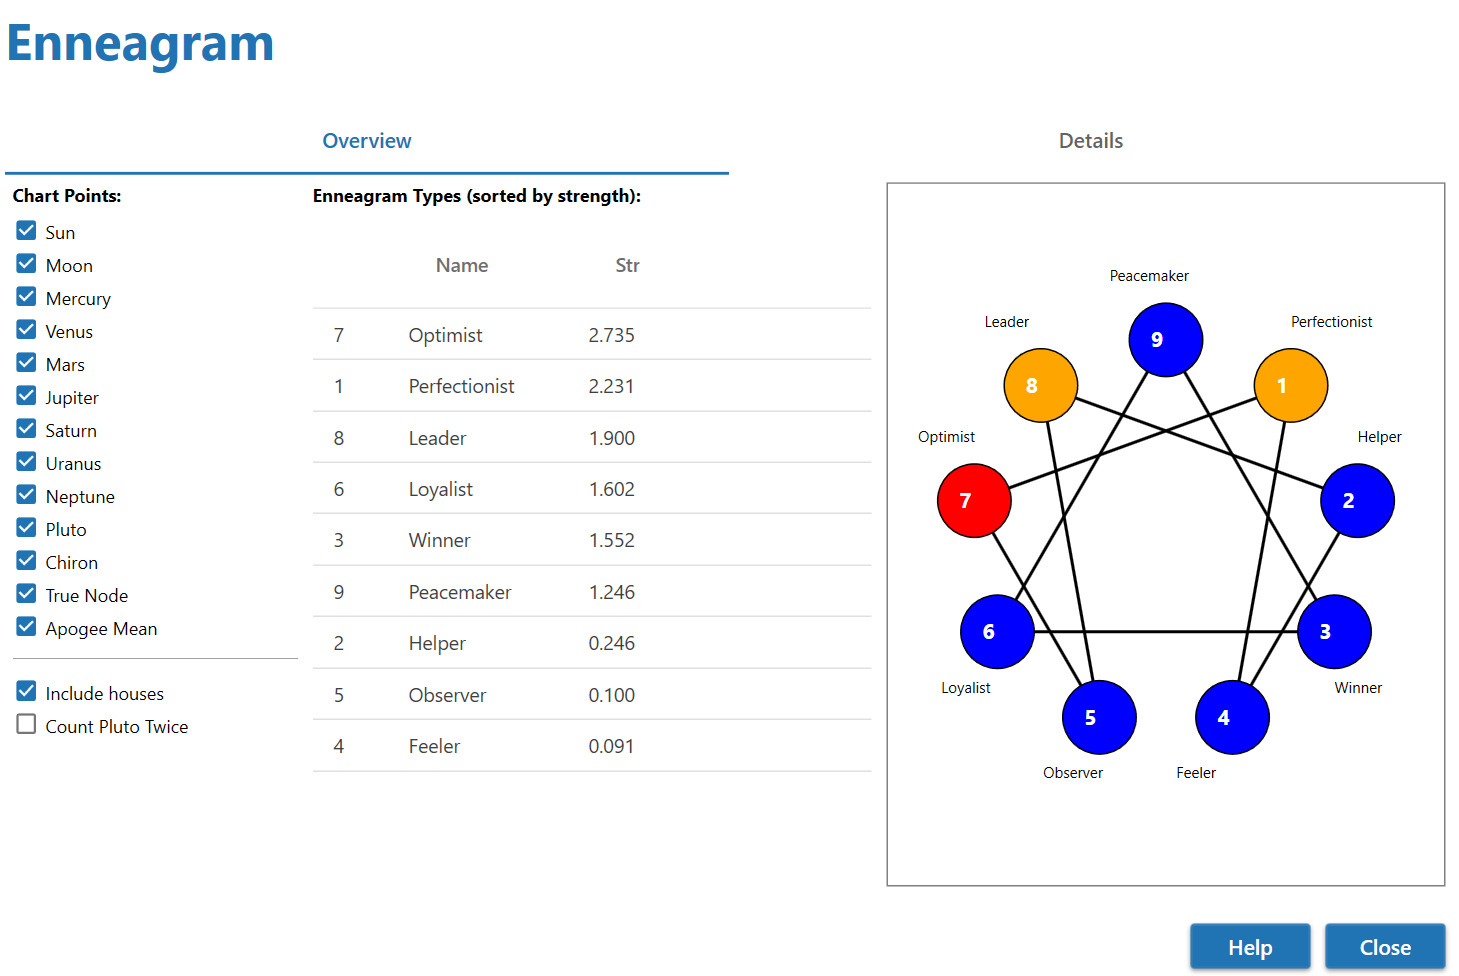
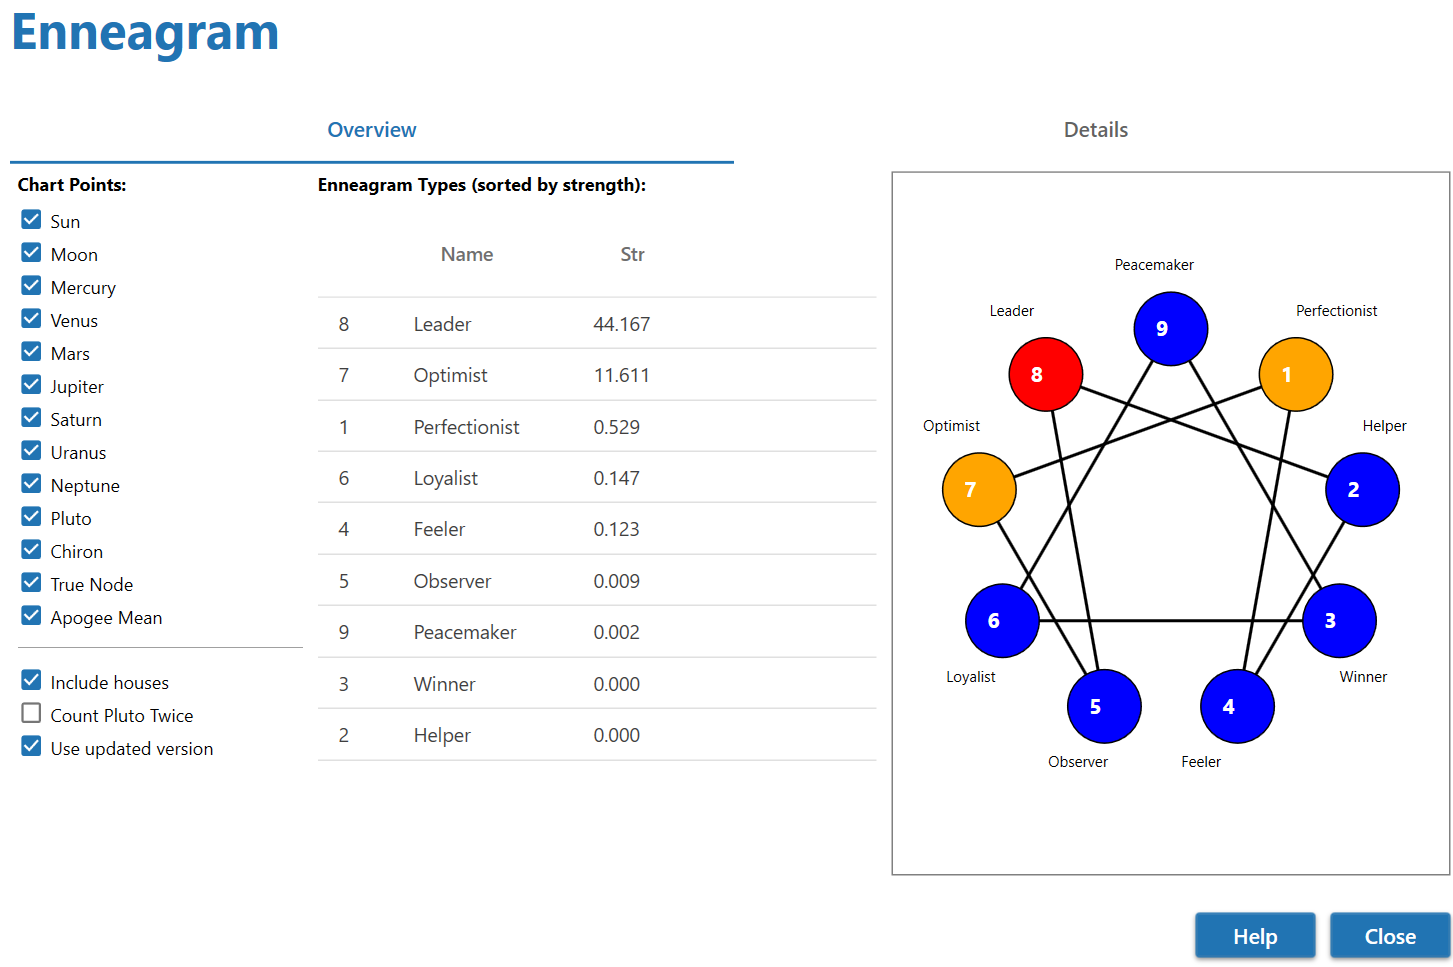
Export chart wheel to PNG

diff --git a/Enigma/Enigma.Frontend/Views/ChartsWheelWindow.xaml b/Enigma/Enigma.Frontend/Views/ChartsWheelWindow.xaml
@@ -39,6 +39,7 @@
                   Checked="NoAspects_Checked" 
                   Unchecked="NoAspects_UnChecked" />
         <StackPanel Grid.Column="2" Grid.Row="2" Margin="6" Orientation="Horizontal" HorizontalAlignment="Right">
+            <Button Content="Export" Margin="4" Click="ExportClick"/>
             <Button Content="Help" Margin="4" Command="{Binding HelpCommand}"/>
             <Button Content="Close" Margin="4" Command="{Binding CloseCommand}"/>
         </StackPanel>

diff --git a/Enigma/Enigma.Frontend/Views/ChartsWheelWindow.xaml.cs b/Enigma/Enigma.Frontend/Views/ChartsWheelWindow.xaml.cs
@@ -5,9 +5,14 @@
 
 using System;
 using System.Collections.Generic;
+using System.IO;
 using System.Windows;
+using System.Windows.Controls;
+using System.Windows.Media;
+using System.Windows.Media.Imaging;
 using Enigma.Frontend.Ui.ViewModels;
 using Microsoft.Extensions.DependencyInjection;
+using Microsoft.Win32;
 
 namespace Enigma.Frontend.Ui.Views;
 
@@ -109,4 +114,143 @@ public partial class ChartsWheelWindow
         Populate();
     }
 
+    private void ExportClick(object sender, RoutedEventArgs e)
+    {
+        var saveDialog = new SaveFileDialog()
+        {
+            Filter = "PNG Files (*.png)|*.png",
+            DefaultExt = ".png"
+        };
+
+        if (saveDialog.ShowDialog() == true)
+        {
+            var dpiScale = 3.0;
+            ExportToPng(WheelCanvas, saveDialog.FileName, dpiScale);
+            MessageBox.Show("Export complete!");
+        }
+        
+    }
+    
+    public static void ExportToPng(Canvas canvas, string filePath, double dpiScale = 1.0, double padding = 10)
+{
+    // 1. Calculate total content bounds (including negative coordinates)
+    Rect totalBounds = new Rect(0, 0, canvas.ActualWidth, canvas.ActualHeight);
+    foreach (UIElement child in canvas.Children)
+    {
+        double left = double.IsNaN(Canvas.GetLeft(child)) ? 0 : Canvas.GetLeft(child);
+        double top = double.IsNaN(Canvas.GetTop(child)) ? 0 : Canvas.GetTop(child);
+        totalBounds.Union(new Rect(left, top, child.RenderSize.Width, child.RenderSize.Height));
+    }
+
+    // 2. Apply padding and ensure minimum dimensions
+    totalBounds.Inflate(padding, padding);
+    int pixelWidth = Math.Max(1, (int)Math.Ceiling(totalBounds.Width * dpiScale));
+    int pixelHeight = Math.Max(1, (int)Math.Ceiling(totalBounds.Height * dpiScale));
+
+    // 3. Handle empty canvas
+    if (pixelWidth <= 0 || pixelHeight <= 0)
+    {
+        MessageBox.Show("Nothing to export - canvas is empty.");
+        return;
+    }
+
+    // 4. Render with high DPI and offset
+    try
+    {
+        RenderTargetBitmap rtb = new RenderTargetBitmap(
+            pixelWidth,
+            pixelHeight,
+            96 * dpiScale,  // Scaled DPI
+            96 * dpiScale,
+            PixelFormats.Pbgra32
+        );
+
+        DrawingVisual dv = new DrawingVisual();
+        using (DrawingContext dc = dv.RenderOpen())
+        {
+            // Shift content to include top/left padding
+            dc.PushTransform(new TranslateTransform(
+                -totalBounds.X + padding, 
+                -totalBounds.Y + padding
+            ));
+            VisualBrush vb = new VisualBrush(canvas);
+            dc.DrawRectangle(vb, null, new Rect(0, 0, canvas.ActualWidth, canvas.ActualHeight));
+        }
+        rtb.Render(dv);
+
+        // 5. Save as PNG
+        PngBitmapEncoder encoder = new PngBitmapEncoder();
+        encoder.Frames.Add(BitmapFrame.Create(rtb));
+        using (FileStream fs = new FileStream(filePath, FileMode.Create))
+        {
+            encoder.Save(fs);
+        }
+    }
+    catch (Exception ex)
+    {
+        MessageBox.Show($"Export failed: {ex.Message}");
+    }
+}
+    
+    
+    public static void ExportToPngBak(Canvas canvas, string filePath)
+    {
+        // 1. Calculate content bounds (including negative coordinates)
+        Rect totalBounds = new Rect(0, 0, canvas.ActualWidth, canvas.ActualHeight);
+        foreach (UIElement child in canvas.Children)
+        {
+            double left = Canvas.GetLeft(child);
+            double top = Canvas.GetTop(child);
+            totalBounds.Union(new Rect(
+                double.IsNaN(left) ? 0 : left,    // Handle NaN values
+                double.IsNaN(top) ? 0 : top,
+                child.RenderSize.Width,
+                child.RenderSize.Height
+            ));
+        }
+
+        // 2. Ensure valid dimensions (minimum 1x1 pixels)
+        int pixelWidth = Math.Max(1, (int)Math.Ceiling(totalBounds.Width));
+        int pixelHeight = Math.Max(1, (int)Math.Ceiling(totalBounds.Height));
+
+        // 3. Handle empty canvas edge case
+        if (pixelWidth <= 0 || pixelHeight <= 0)
+        {
+            MessageBox.Show("Nothing to export - canvas is empty.");
+            return;
+        }
+
+        // 4. Render with offset to include top/left content
+        try
+        {
+            RenderTargetBitmap rtb = new RenderTargetBitmap(
+                pixelWidth,
+                pixelHeight,
+                96,  // Standard DPI
+                96,
+                PixelFormats.Pbgra32
+            );
+
+            DrawingVisual dv = new DrawingVisual();
+            using (DrawingContext dc = dv.RenderOpen())
+            {
+                dc.PushTransform(new TranslateTransform(-totalBounds.X, -totalBounds.Y));
+                VisualBrush vb = new VisualBrush(canvas);
+                dc.DrawRectangle(vb, null, new Rect(0, 0, canvas.ActualWidth, canvas.ActualHeight));
+            }
+            rtb.Render(dv);
+
+            // 5. Save as PNG
+            PngBitmapEncoder encoder = new PngBitmapEncoder();
+            encoder.Frames.Add(BitmapFrame.Create(rtb));
+            using (FileStream fs = new FileStream(filePath, FileMode.Create))
+            {
+                encoder.Save(fs);
+            }
+        }
+        catch (Exception ex)
+        {
+            MessageBox.Show($"Export failed: {ex.Message}");
+        }
+    }
 }
